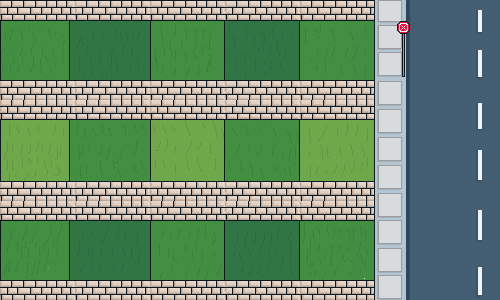
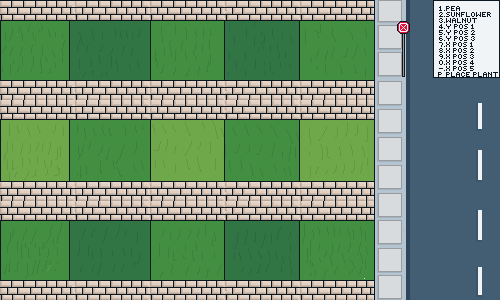
fix shoot the pea bullet

Changed region(s): [[0.84, 0.0, 1.0, 0.27]]

diff --git a/main_game.py b/main_game.py
@@ -1,9 +1,11 @@
 import pygame
 import settings
 import sys 
+import pygame_gui
 from plant_base import Walnut
 from plant_base import Sunflower
 from plant_base import Pea
+from plant_base import PeaBullet
 from random import randint
 
 
@@ -16,60 +18,141 @@ class Plant_defense:
         pygame.display.set_caption("Plant defense")
         self.game_backround = pygame.transform.scale(pygame.image.load(settings.BACKROUND_IMAGE),(settings.BACKROUND_LENGHT,settings.BACKROUND_HEIGHT))
 
+        
+
         "plants object creation"
         self.walnut = Walnut(self, 120, 150, 380,420)
         self.sunflower = Sunflower(self, 120, 150, 770, 620)
         self.pea = Pea(self,120,150, 80,100)
-        self.peas = pygame.sprite.Group()
-        self.sunflowers = pygame.sprite.Group()
-        self.walnuts = pygame.sprite.Group()
+        
 
+        self.bullet_group = pygame.sprite.Group()
+        self.peas = []
+        #self.peas.append(self.pea) 
+        self.sunflowers = []
+        #self.sunflowers.append(self.sunflower)
+        self.walnuts = []
+        #self.walnuts.append(self.walnut)
+
+
+        self.plantMove1 = 0
+        self.plantPlace1 = True
+        self.plantPlaced1 = []
+
+        self.plantMove2 = 0
+        self.plantPlace2 = True
+        self.plantPlaced2= []
+        
+        self.plantMove3 = 0
+        self.plantPlace3= True
+        self.plantPlaced3 = []
             
 
     def run_game(self):
+        manager = pygame_gui.UIManager((1777, 1000), theme_path="quick_start.json")
 
+        window_surface = pygame.display.set_mode((1777, 1000))
+        clock = pygame.time.Clock()
+        hello_button = pygame_gui.elements.UIButton(relative_rect=pygame.Rect((600, 400), (300, 150)),
+                                             text='start game',
+                                             manager=manager)
         while True:
+            
+            time_delta = clock.tick(60)/1000.0
             pressed_key = pygame.key.get_pressed()
             for event in pygame.event.get():
                 if event.type == pygame.QUIT:
                     sys.exit()
+                if event.type == pygame_gui.UI_BUTTON_PRESSED:
+                    if event.ui_element == hello_button:
+                        print('Hello World!')
+                manager.process_events(event)
+            
+            manager.update(time_delta)
             self.screen.blit(self.game_backround,(0,0))
             "plant call"
-
-            if pressed_key[pygame.K_q]:
-                self.pea.movePlant = True
-                self.walnut = False
-                self.sunflower = False
             
-            if pressed_key[pygame.K_w]:
-                self.pea.movePlant = True
-                self.walnut = False
-                self.sunflower = False
+            self.bullet_group.add(self.pea.shoot_bullet())
+            if self.bullet_group:
+                self.bullet_group.draw(self.screen)
+                self.bullet_group.update()
+                print(len(self.bullet_group))
 
-            if pressed_key[pygame.K_q]:
-                self.pea.movePlant = True
-                self.walnut = False
-                self.sunflower = False
-
-            if pressed_key[pygame.K_1]:
+            #summons the plants
+            if pressed_key[pygame.K_1] and len(self.sunflowers) == 0 and len(self.walnuts) == 0 and len(self.peas) < 2:
+                self.pea = Pea(self,120,150, 80,100)
+                self.peas.append(self.pea)
+                self.plantMove1 = 1
                 self.pea.putPlant = True
-            if self.pea.putPlant == True:
-                self.pea.blitme()
-                self.pea.update()
 
-            if pressed_key[pygame.K_2]:
-                self.walnut.putPlant = True
-            if self.walnut.putPlant == True:
-                self.walnut.blitme()
-                self.walnut.update()
-
-            if pressed_key[pygame.K_3]:
+            if pressed_key[pygame.K_2] and len(self.peas) == 0 and len(self.walnuts) == 0 and len(self.sunflowers) < 2 :
+                self.sunflower = Sunflower(self,120,150, 80,100)
+                self.sunflowers.append(self.sunflower)
+                self.plantMove2 = 1
                 self.sunflower.putPlant = True
-            if self.sunflower.putPlant == True:
-                self.sunflower.blitme()
-                self.sunflower.update()
 
+            if pressed_key[pygame.K_3] and len(self.sunflowers) == 0 and len(self.peas) == 0 and len(self.walnuts) < 2:
+                self.walnut = Walnut(self,120,150, 80,100)
+                self.walnuts.append(self.walnut)
+                self.plantMove3 = 1
+                self.walnut.putPlant = True
+
+
+            #makes the plants placeble
+            if pressed_key[pygame.K_p] and self.peas:
+                self.plantPlaced1.append(self.pea)
+                self.peas.clear()
+
+            if pressed_key[pygame.K_p] and self.sunflowers:
+                self.plantPlaced2.append(self.sunflower)
+                self.sunflowers.clear()
+
+            if pressed_key[pygame.K_p] and self.walnuts:
+                self.plantPlaced3.append(self.walnut)
+                self.walnuts.clear()
+
+
+            #shows the plants that are currently moving 
+            if self.pea.putPlant:
+                for pea in self.peas:
+                    pea.blitme()
+
+            if self.sunflower.putPlant:
+                for sunflower in self.sunflowers:
+                    sunflower.blitme()
+
+            if self.walnut.putPlant:
+                for walnut in self.walnuts:
+                    walnut.blitme()
+
+
+            #updates the plants that are being moved
+            if self.pea.putPlant and self.plantMove1 == 1 and self.plantPlace1:
+                for pea in self.peas:
+                    pea.update()
+
+            if self.sunflower.putPlant and self.plantMove2 == 1 and self.plantPlace2:
+                for sunflower in self.sunflowers:
+                    sunflower.update()
+
+            if self.walnut.putPlant and self.plantMove3 == 1 and self.plantPlace3:
+                for walnut in self.walnuts:
+                    walnut.update()
+                    
+
+            #shows already placed plants
+            for walnut in self.plantPlaced3:
+                walnut.blitme()
+            
+            for sunflower in self.plantPlaced2:
+                sunflower.blitme()
+            
+            for pea in self.plantPlaced1:
+                pea.blitme()
+
+            manager.draw_ui(window_surface)
             pygame.display.flip()
+            
             
 
 if __name__ == '__main__':

diff --git a/plant_base.py b/plant_base.py
@@ -85,6 +85,12 @@ class Sunflower(pygame.sprite.Sprite):
     def blitme(self,):
         self.screen.blit(self.image, (self.rect.x,self.rect.y))
 
+
+
+
+
+
+
 class Pea(pygame.sprite.Sprite):
     def __init__(self, pd_game, plant_size_width, plant_side_height, plant_postionx, plant_positiony):
         super().__init__()
@@ -95,7 +101,13 @@ class Pea(pygame.sprite.Sprite):
         self.rect.y = plant_positiony
         self.putPlant = False
         self.movePlant = False
+    def blitme(self,):
+        self.screen.blit(self.image, (self.rect.x,self.rect.y))
 
+    def shoot_bullet(self):
+        self.pea_bullet = PeaBullet(200, self.rect.centerx, self.rect.centery, 5)
+        return self.pea_bullet  
+    
     def update(self):
         pressed_keys = pygame.key.get_pressed()
         if pressed_keys[pygame.K_4]:
@@ -122,8 +134,15 @@ class Pea(pygame.sprite.Sprite):
         
         if pressed_keys[pygame.K_MINUS]:
             self.rect.x = settings.X_POS5
-        
 
-
-    def blitme(self,):
-        self.screen.blit(self.image,(self.rect.x,self.rect.y))
+class PeaBullet(pygame.sprite.Sprite):
+    def __init__(self, bullet_size,bullet_postionx, bullet_positiony,bullet_speed):
+        super().__init__()
+        self.image = pygame.transform.scale(pygame.image.load(settings.BULLET_PHOTO) , (bullet_size,bullet_size))
+        self.rect = self.image.get_rect()
+        self.rect.x = bullet_postionx
+        self.rect.y = bullet_positiony
+        self.speed = bullet_speed
+    
+    def update(self):
+        self.rect.x += self.speed

diff --git a/settings.py b/settings.py
@@ -4,6 +4,7 @@ BACKROUND_LENGHT = 1777
 WALNUT_PHOTO = "images/walnut.png"
 SUNFLOWER_PHOTO = "images/sunflower.png"
 PEA_PHOTO = "images/pea.png"
+BULLET_PHOTO = "images/peaBullet.png"
 Y_POS1 = 100
 Y_POS2 = 420
 Y_POS3 = 770